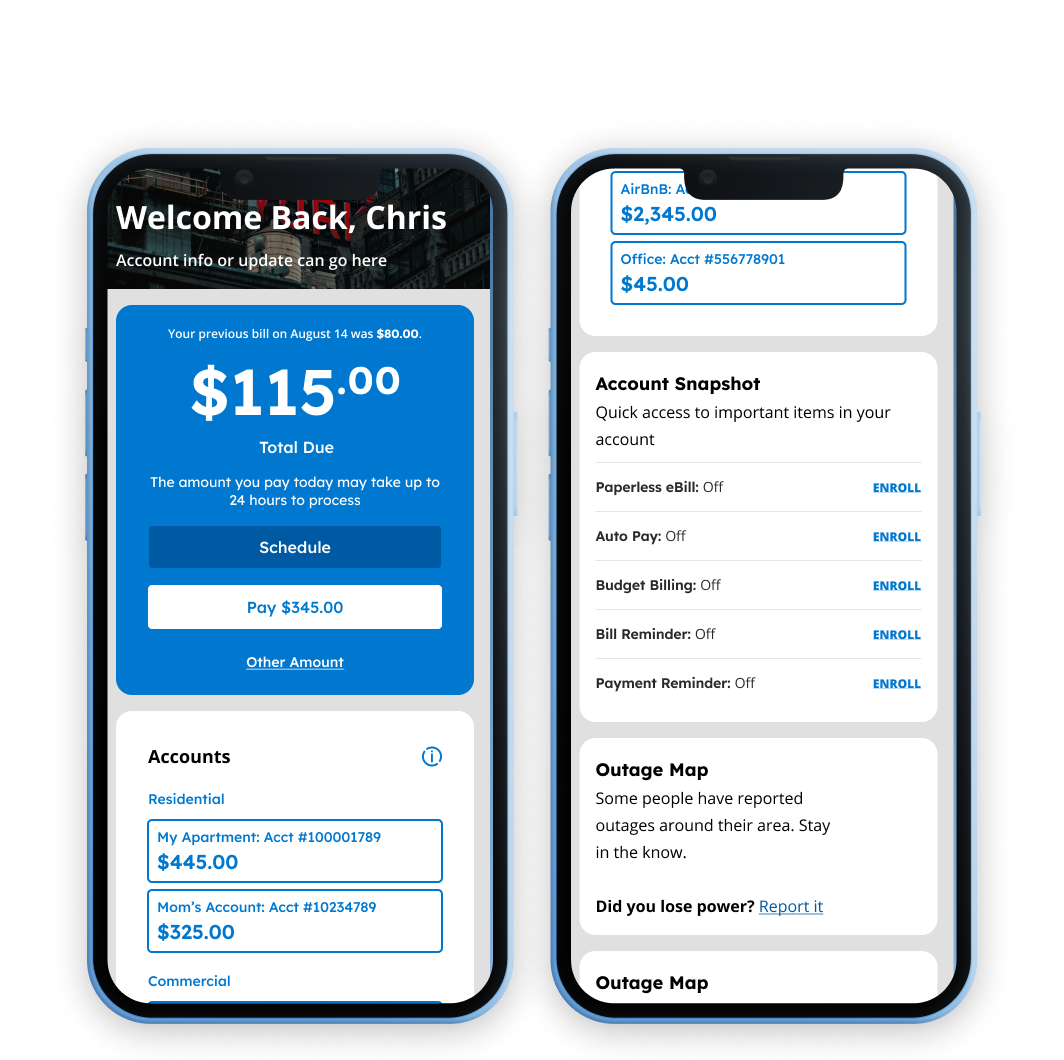
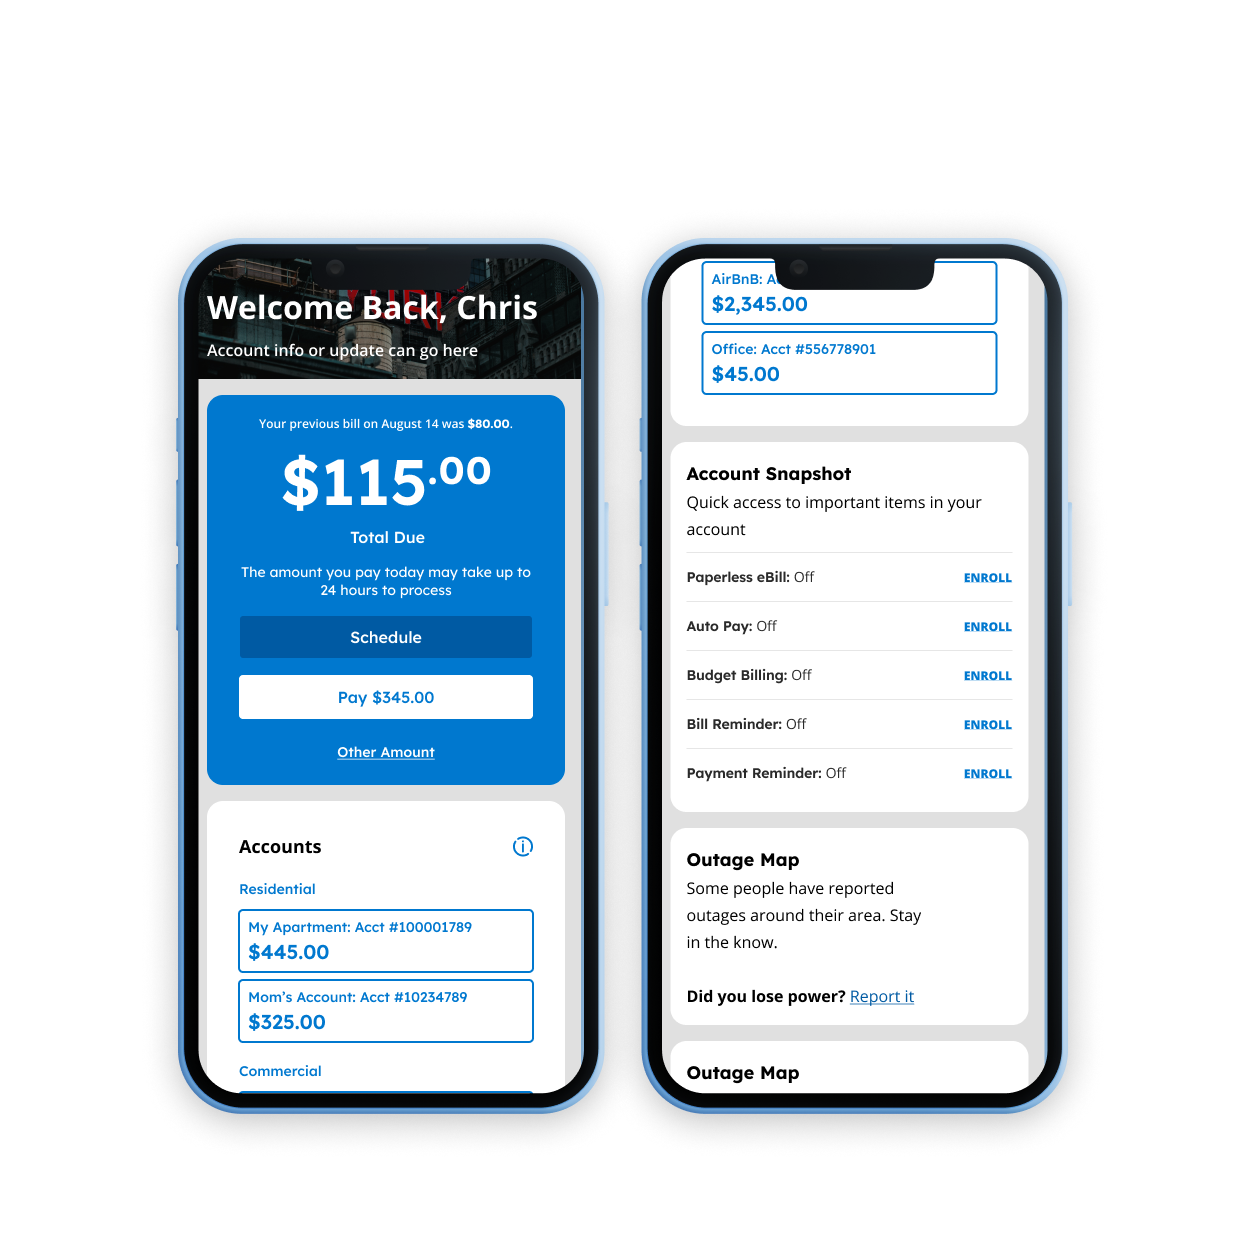
Rebuild home hero carousel with the full 8-image numbered set
Replaces all previous home hero carousel slides (dubclub-banner-3,
audible-banner-1, abi-carousel-1, walgreens-banner-1, and the earlier
single-image test) with home-hero-img-1 through 8, presented in
numerical order through the auto-advancing carousel. All 8 were
designed against the Figma spec frame for this panel (near-square,
~1:1 ratio) and fit cleanly with object-fit: cover.

diff --git a/index.html b/index.html
@@ -77,11 +77,14 @@
          photography/video before launch. -->
     <div class="hero__panel-visual hero__panel-visual--home">
       <div class="home-hero-carousel" data-home-carousel>
-        <div class="home-hero-carousel__slide is-active"><img src="assets/images/dubclub-banner-3.png" alt="" loading="lazy"></div>
-        <div class="home-hero-carousel__slide"><img src="assets/images/audible-banner-1.png" alt="" loading="lazy"></div>
-        <div class="home-hero-carousel__slide"><img src="assets/images/abi-carousel-1.png" alt="" loading="lazy"></div>
+        <div class="home-hero-carousel__slide is-active"><img src="assets/images/home-hero-img-1.png" alt="" loading="lazy"></div>
+        <div class="home-hero-carousel__slide"><img src="assets/images/home-hero-img-2.png" alt="" loading="lazy"></div>
+        <div class="home-hero-carousel__slide"><img src="assets/images/home-hero-img-3.png" alt="" loading="lazy"></div>
         <div class="home-hero-carousel__slide"><img src="assets/images/home-hero-img-4.png" alt="" loading="lazy"></div>
-        <div class="home-hero-carousel__slide"><img src="assets/images/walgreens-banner-1.png" alt="" loading="lazy"></div>
+        <div class="home-hero-carousel__slide"><img src="assets/images/home-hero-img-5.png" alt="" loading="lazy"></div>
+        <div class="home-hero-carousel__slide"><img src="assets/images/home-hero-img-6.png" alt="" loading="lazy"></div>
+        <div class="home-hero-carousel__slide"><img src="assets/images/home-hero-img-7.png" alt="" loading="lazy"></div>
+        <div class="home-hero-carousel__slide"><img src="assets/images/home-hero-img-8.png" alt="" loading="lazy"></div>
       </div>
     </div>
 
